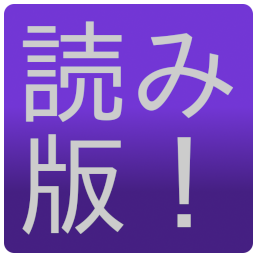
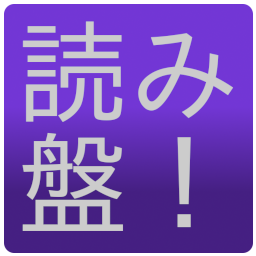
corrected an embarrassing oopsie with wrong kanji on appimage

Changed region(s): [[0.0625, 0.5, 0.5, 0.9375]]

diff --git a/src/main/backendBridge.js b/src/main/backendBridge.js
@@ -18,7 +18,7 @@ function useBackend() {
             childProcesses.backend.executable);
         console.log("backend path", backendPath);
 
-        const backend = spawn(backendPath, [])
+        const backend = spawn(backendPath, { stdio : ["pipe", "pipe", "pipe"], shell : true})
         backend.on("spawn", () => {
             const res = backend.stdin.write(JSON.stringify({ "type": "Connect", "value": webSocket }) + "\n", 'utf-8', (e) => console.log(e));
         })
